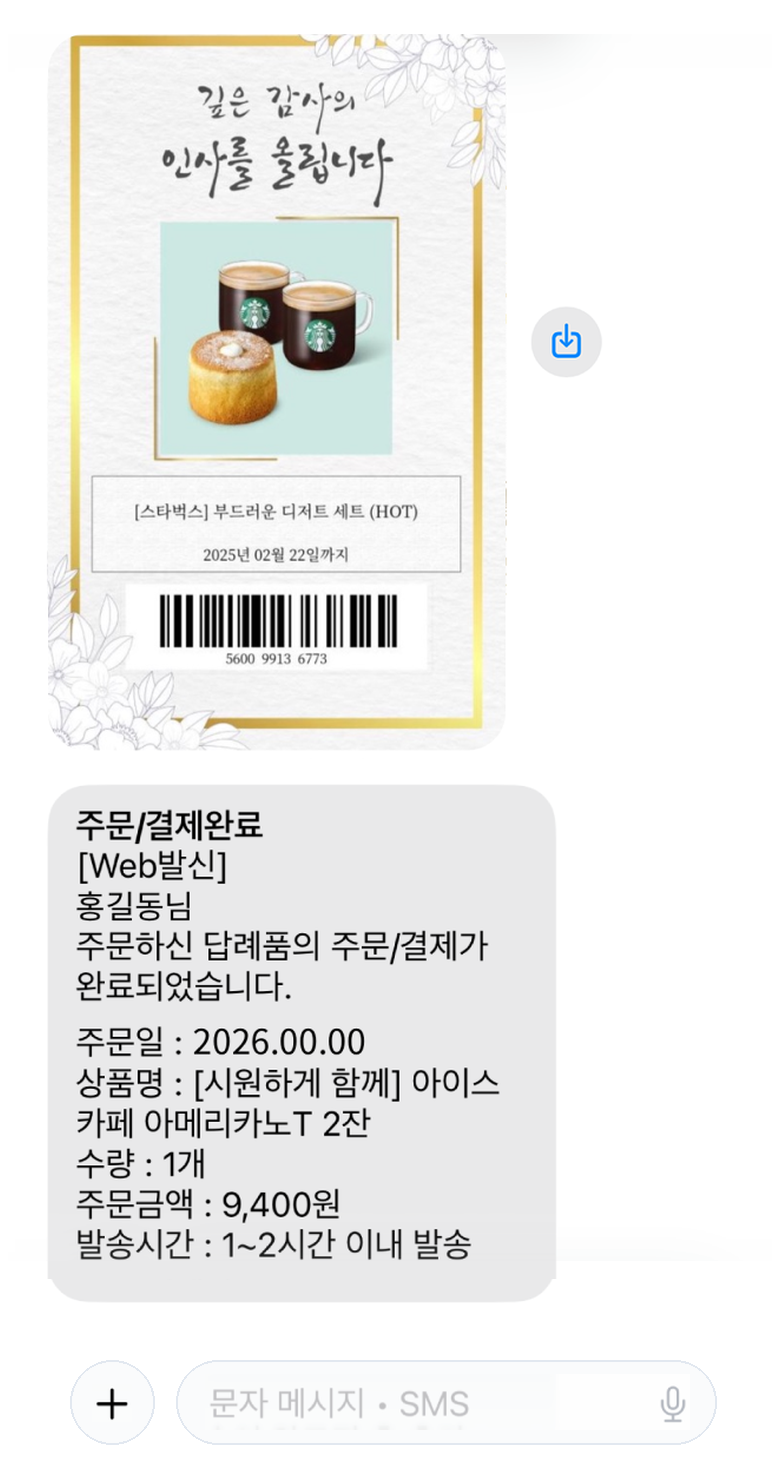
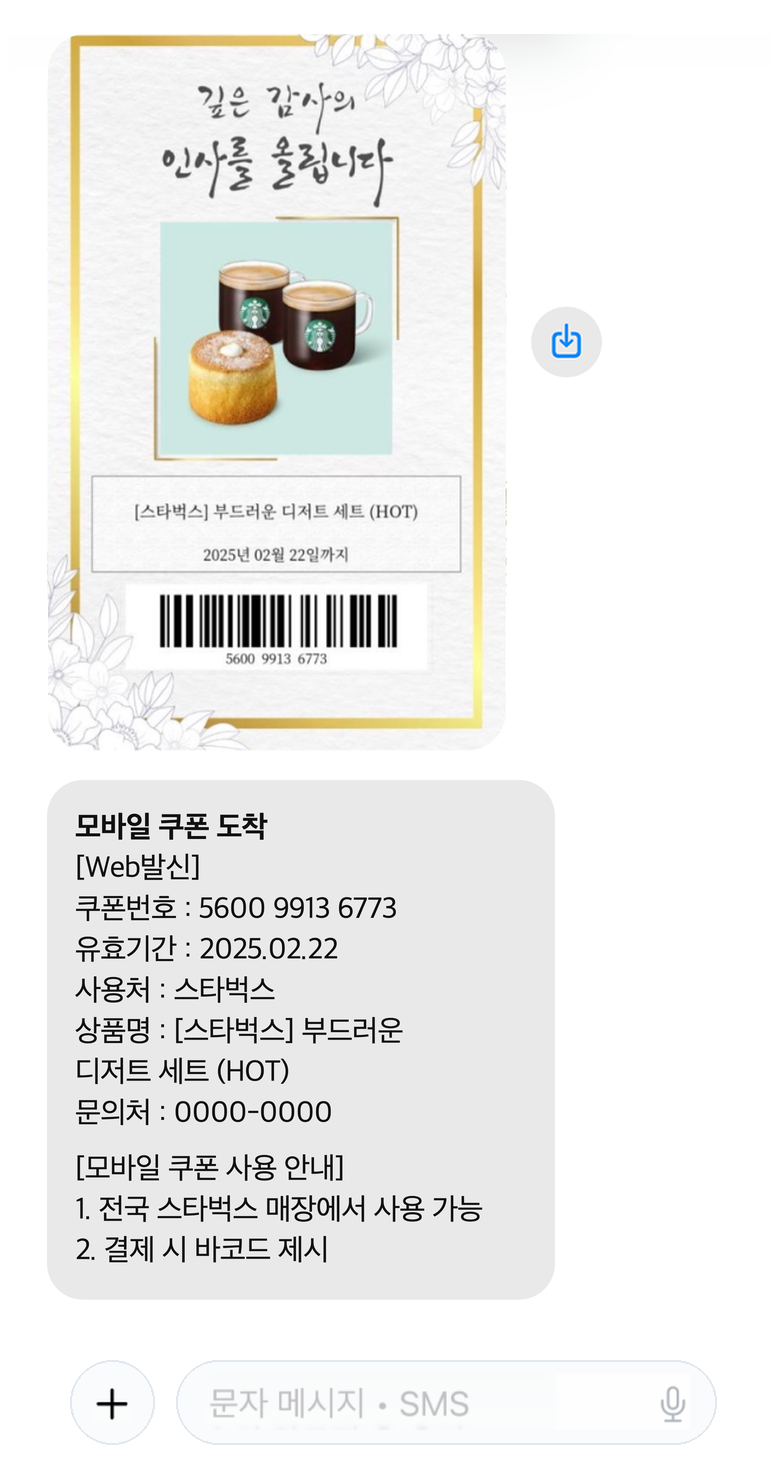
chore: update m_gift_step4.png to mobile coupon arrival SMS (문의처 0000-0000)

Changed region(s): [[0.0923, 0.5514, 0.6154, 0.8577], [0.5538, 0.7046, 0.6462, 0.7658]]

diff --git a/eiumbugo-partner.html b/eiumbugo-partner.html
@@ -2163,7 +2163,7 @@
             <div class="phone-step-desc">전용 답례품몰에서 간편 결제</div>
           </div>
           <div class="phone-flow-item">
-            <div class="phone-frame-box"><img src="guide-assets/m_gift_step4.png" alt="4. 모바일 쿠폰 전달" /></div>
+            <div class="phone-frame-box"><img src="guide-assets/m_gift_step4.png?v=20261105" alt="4. 모바일 쿠폰 전달" /></div>
             <div class="phone-step-title">4. 모바일 쿠폰 전달</div>
             <div class="phone-step-desc">조문객에게 실시간 선물 전송</div>
           </div>

diff --git a/eiumbugo.html b/eiumbugo.html
@@ -2315,7 +2315,7 @@
             <div class="phone-step-desc">전용 답례품몰에서 간편 결제</div>
           </div>
           <div class="phone-flow-item">
-            <div class="phone-frame-box"><img src="guide-assets/m_gift_step4.png" alt="4. 모바일 쿠폰 전달" /></div>
+            <div class="phone-frame-box"><img src="guide-assets/m_gift_step4.png?v=20261105" alt="4. 모바일 쿠폰 전달" /></div>
             <div class="phone-step-title">4. 모바일 쿠폰 전달</div>
             <div class="phone-step-desc">조문객에게 실시간 선물 전송</div>
           </div>

diff --git a/scripts/build_eiumbugo_guides.py b/scripts/build_eiumbugo_guides.py
@@ -598,7 +598,7 @@ uiux_mobile_flow_section = """
             <div class="phone-step-desc">전용 답례품몰에서 간편 결제</div>
           </div>
           <div class="phone-flow-item">
-            <div class="phone-frame-box"><img src="guide-assets/m_gift_step4.png" alt="4. 모바일 쿠폰 전달" /></div>
+            <div class="phone-frame-box"><img src="guide-assets/m_gift_step4.png?v=20261105" alt="4. 모바일 쿠폰 전달" /></div>
             <div class="phone-step-title">4. 모바일 쿠폰 전달</div>
             <div class="phone-step-desc">조문객에게 실시간 선물 전송</div>
           </div>
